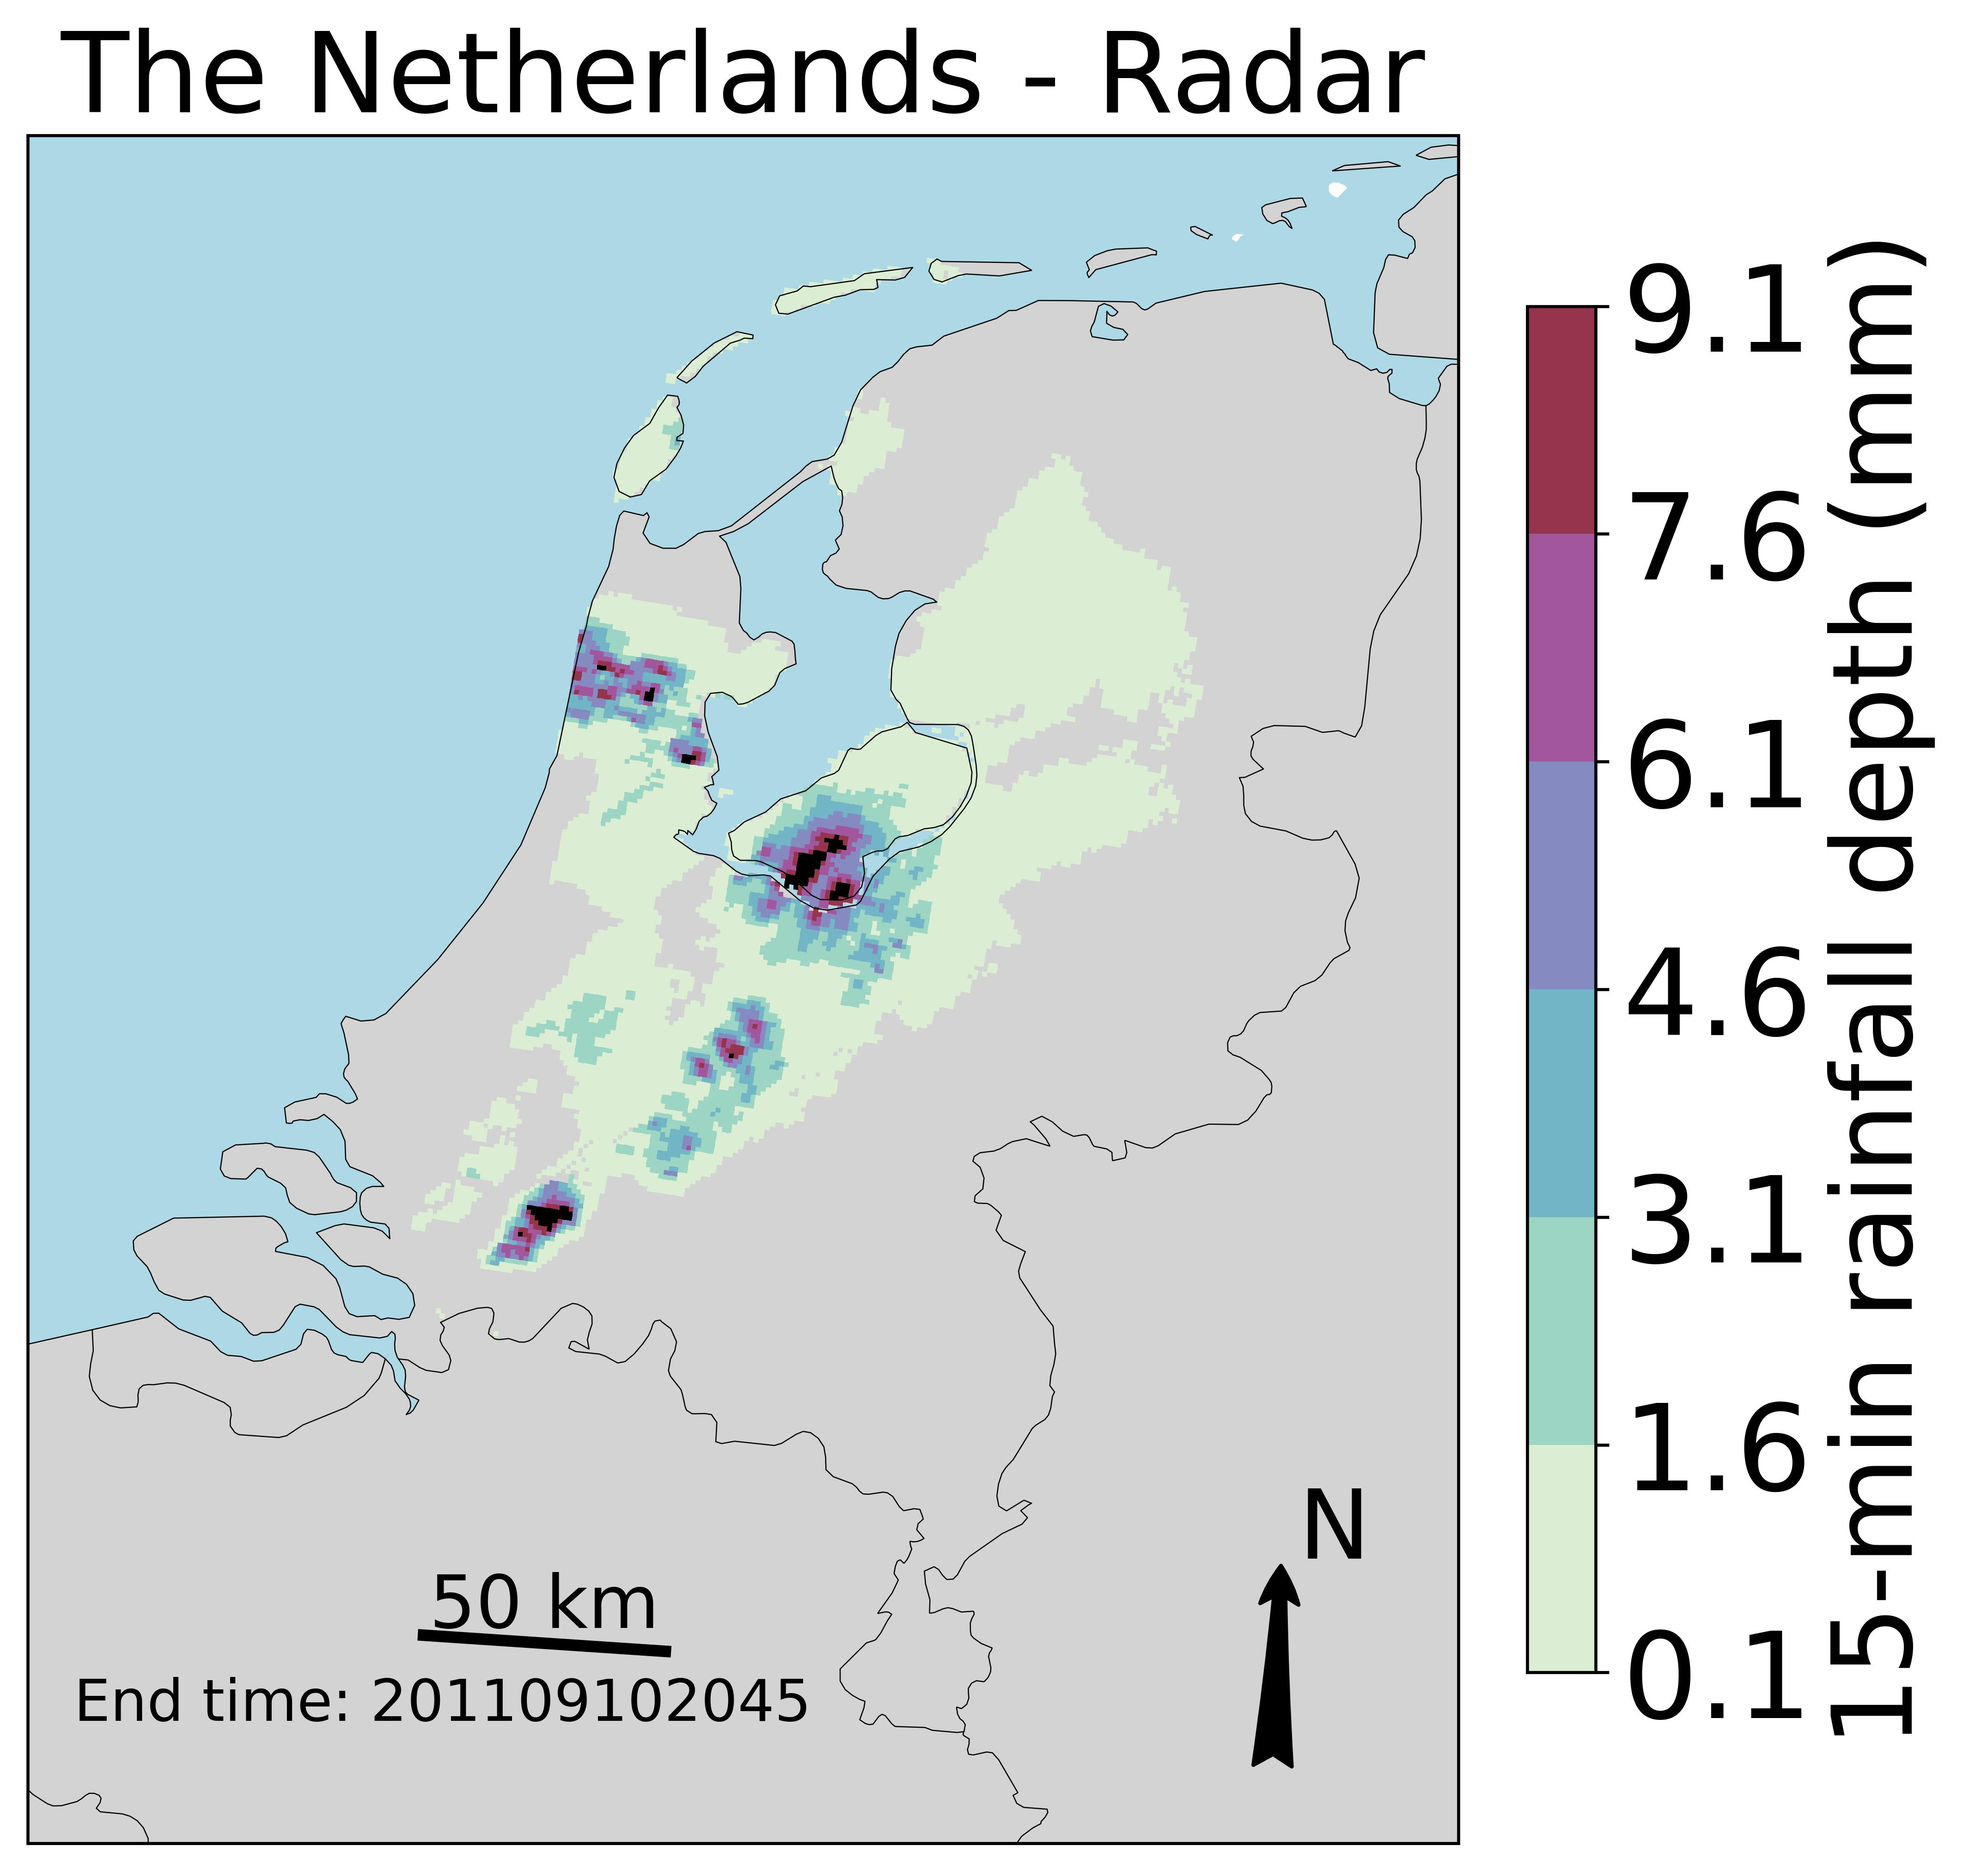
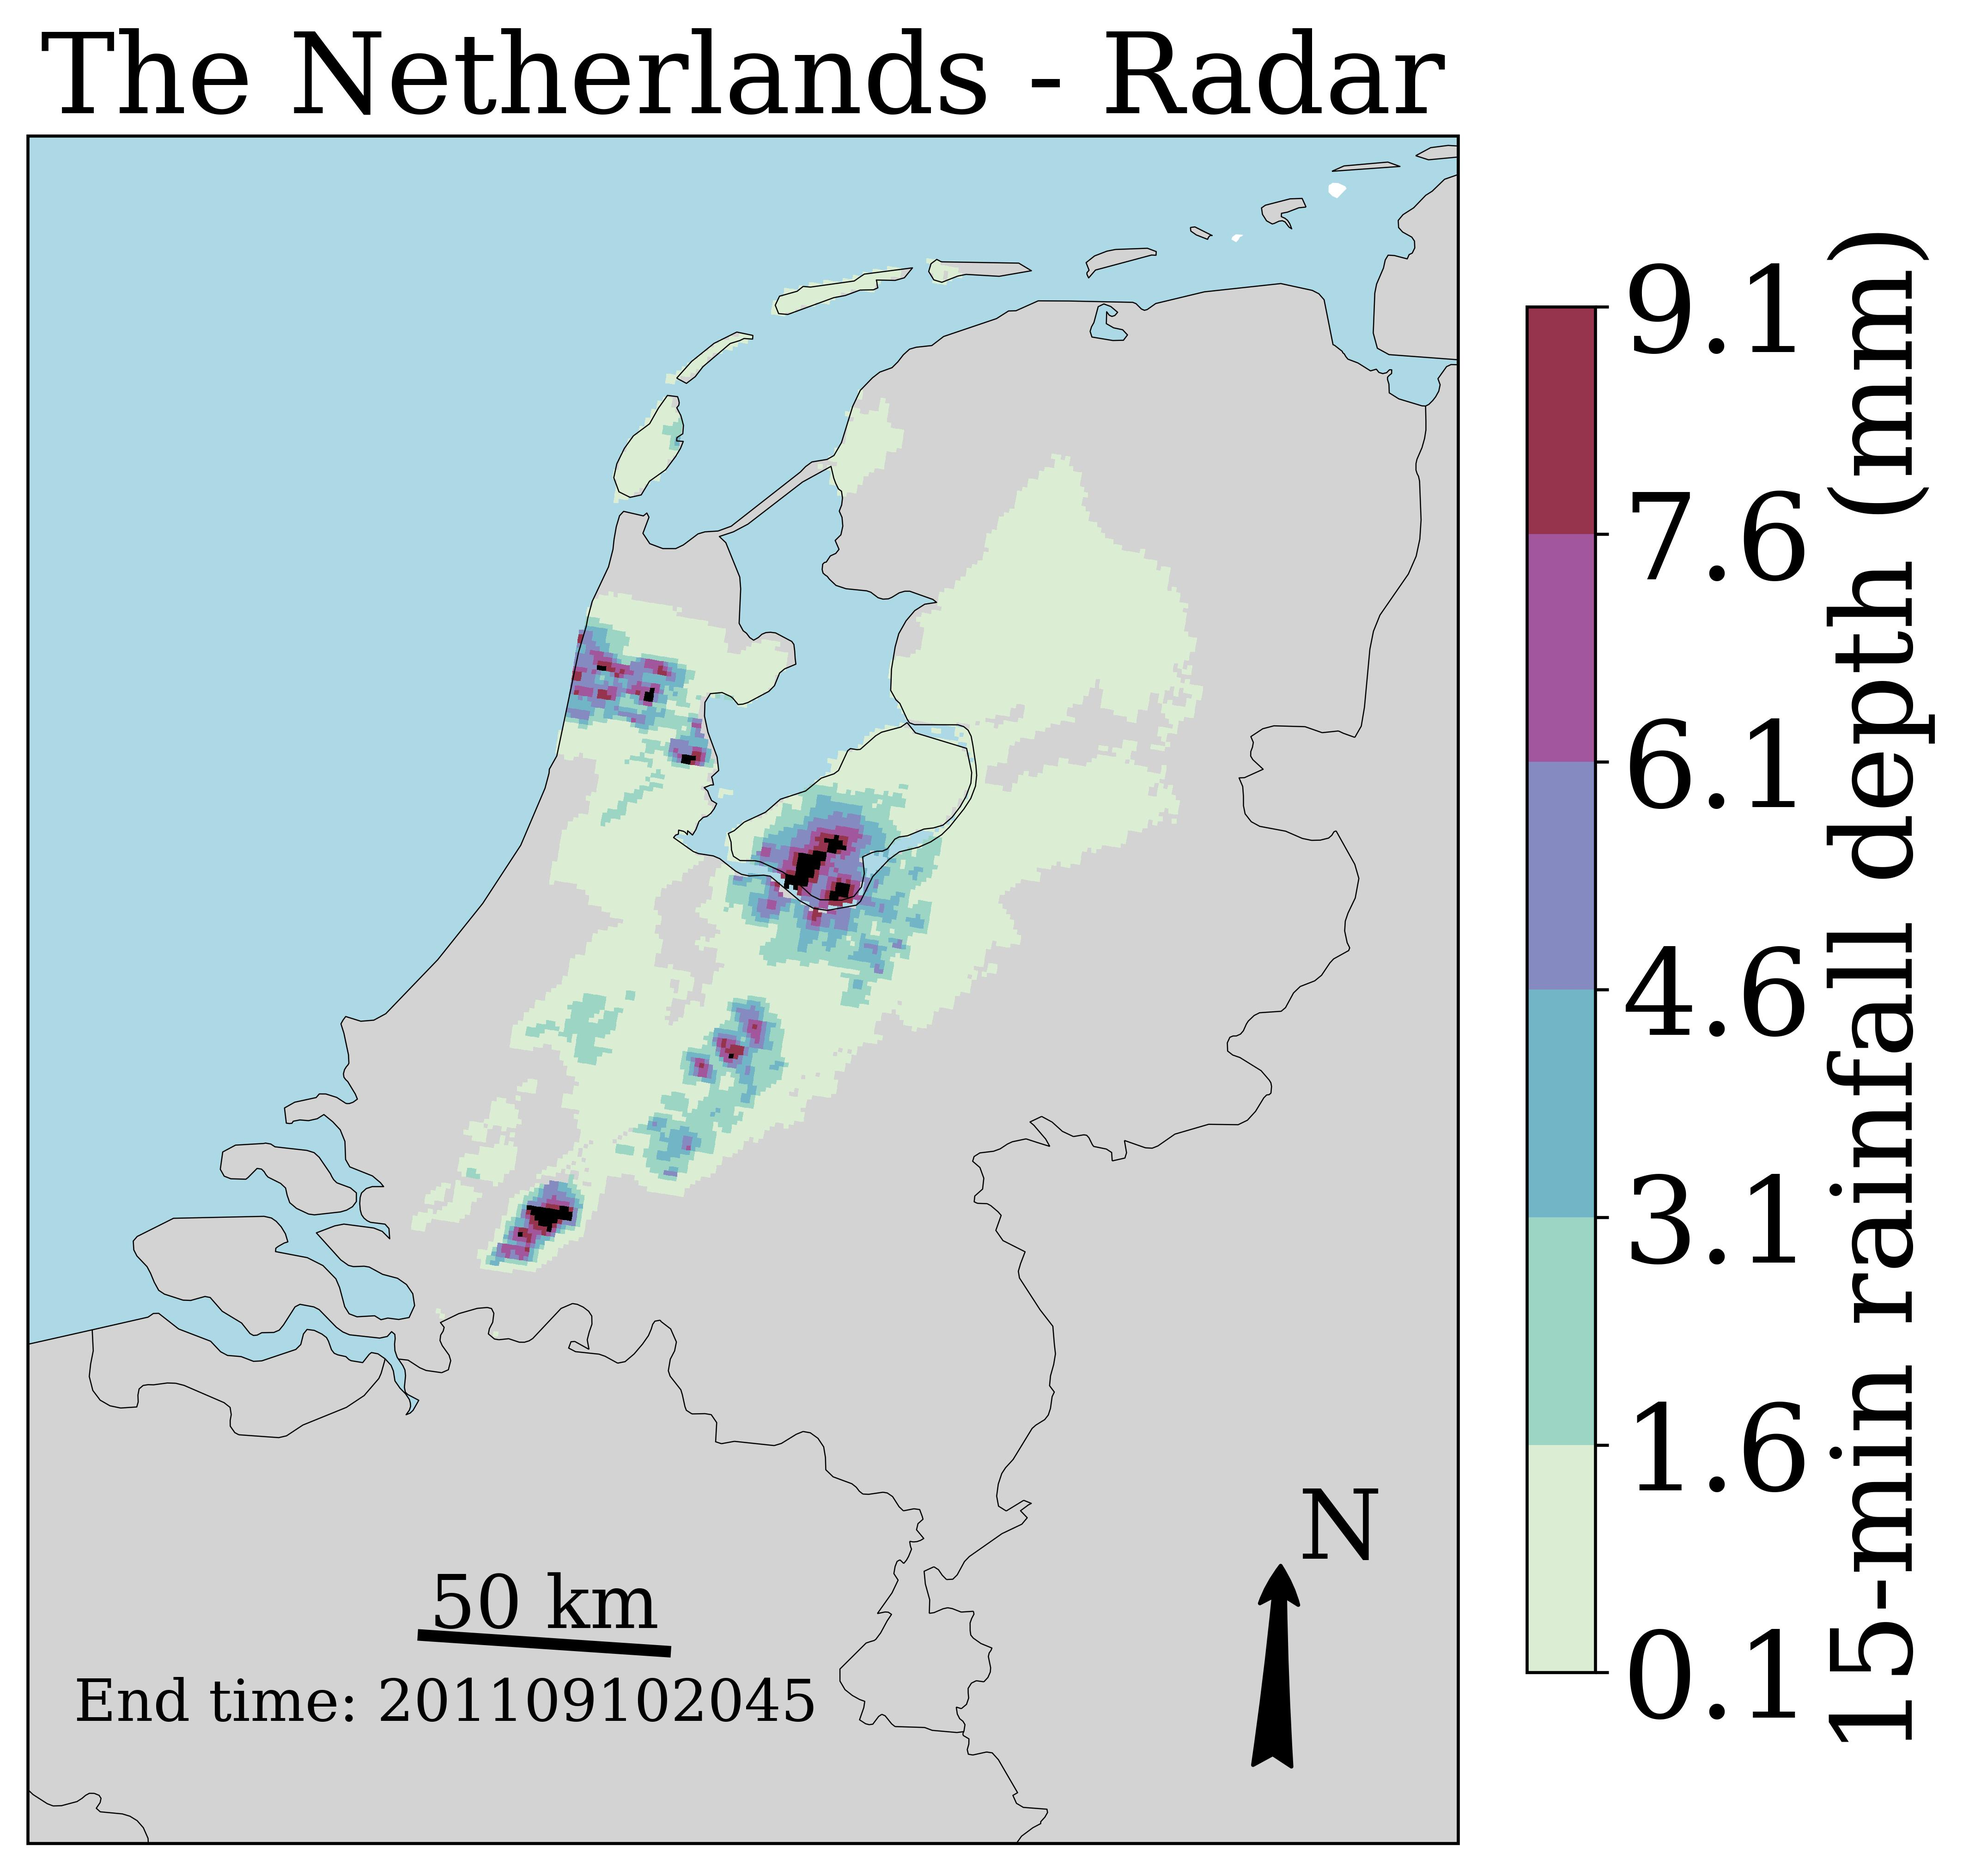
Add files via upload
Small changes in visualization:
- font changes from sans-serif to serif
- line width and color of countries, lake lines and coast lines can now be specified in "Config...py" files.

diff --git a/VisualizeCMLsGaugesRadars_CartopyOSM_GM.py b/VisualizeCMLsGaugesRadars_CartopyOSM_GM.py
@@ -5,7 +5,7 @@
 # Part of MapRAINLINK: https://github.com/overeem11/MapRAINLINK
 #
 #
-## Version 1.1
+## Version 1.11
 ## Copyright (C) 2025 Aart Overeem
 ##
 ## This program is free software: you can redistribute it and/or modify
@@ -311,7 +311,7 @@ if PlotOPERARadar=="yes":
 ##################
 
 # Map settings (e.g. projection and extent of area):
-plt.rcParams["font.family"] = "sans-serif"
+plt.rcParams["font.family"] = "serif"
 plt.rcParams.update({'font.size': FontSizeLegendLabel}) 
 plt.close('all')
 transform = ccrs.PlateCarree()
@@ -532,11 +532,11 @@ if TypeBackGroundMap=="NE":
    if DrawProvinces=="yes":
       ax.add_feature(cartopy.feature.STATES.with_scale("10m"), linewidth=0.3, zorder=2, edgecolor="gray")
    if DrawCountries=="yes":    
-      ax.add_feature(cartopy.feature.BORDERS, linestyle="-", linewidth=0.3, zorder=2)
+      ax.add_feature(cartopy.feature.BORDERS, linestyle="-", linewidth=LineWidthCoastLinesCountriesLakeLines, zorder=2, color=ColorCoastLinesCountriesLakeLines)
    if DrawCoastlines=="yes":
-       ax.coastlines(resolution="10m", linewidth=0.3, zorder=2)
+       ax.coastlines(resolution="10m", linewidth=LineWidthCoastLinesCountriesLakeLines, zorder=2, color=ColorCoastLinesCountriesLakeLines)
    if DrawLakelines=="yes":
-      ax.add_feature(cartopy.feature.LAKES, edgecolor="black", linewidth=0.3, facecolor="none",zorder=2)
+      ax.add_feature(cartopy.feature.LAKES, edgecolor=ColorCoastLinesCountriesLakeLines, linewidth=LineWidthCoastLinesCountriesLakeLines, facecolor="none",zorder=2)
 
  
 # Draw parallels & meridians: 

diff --git a/ConfigVisualizeCMLsGaugesRadars_CartopyOSM_GM.py b/ConfigVisualizeCMLsGaugesRadars_CartopyOSM_GM.py
@@ -5,7 +5,7 @@
 # Part of MapRAINLINK: https://github.com/overeem11/MapRAINLINK
 #
 #
-## Version 1.1
+## Version 1.11
 ## Copyright (C) 2025 Aart Overeem
 ##
 ## This program is free software: you can redistribute it and/or modify
@@ -60,6 +60,8 @@ ColorOceanRiverLakes = "lightblue"      	# Color of oceans, seas, rivers and lak
 DrawCoastlines = "yes"    			# "yes" for drawing coastlines. Note that coastlines and country borders seem less accurate compared to OpenStreetMap and GoogleMap.
 DrawCountries = "yes"	  			# "yes" for drawing country borders.
 DrawLakelines = "yes"     			# "yes" for drawing lake lines.
+LineWidthCoastLinesCountriesLakeLines = 0.3     # 0.3 works wel for European scale, 1.2 works well for northwestern Europe scale.
+ColorCoastLinesCountriesLakeLines = "black"     # "black" can work well for European scale, "dimgray" can work well for northwestern Europe scale.
 DrawProvinces = "no"     			# "yes" for drawing borders of departments/provinces. 
 DrawRivers = "no"        			# "yes" for drawing rivers.
 Projection = "yes"                               # "yes" to use projection with EPSG code given below:

diff --git a/ConfigVisualizeCMLsGaugesRadars_CartopyOSM_GM_SriLanka.py b/ConfigVisualizeCMLsGaugesRadars_CartopyOSM_GM_SriLanka.py
@@ -5,7 +5,7 @@
 # Part of MapRAINLINK: https://github.com/overeem11/MapRAINLINK
 #
 #
-## Version 1.1
+## Version 1.11
 ## Copyright (C) 2025 Aart Overeem
 ##
 ## This program is free software: you can redistribute it and/or modify
@@ -60,6 +60,8 @@ ColorOceanRiverLakes = "lightblue"      	# Color of oceans, seas, rivers and lak
 DrawCoastlines = "yes"    			# "yes" for drawing coastlines. Note that coastlines and country borders seem less accurate compared to OpenStreetMap and GoogleMap.
 DrawCountries = "yes"	  			# "yes" for drawing country borders.
 DrawLakelines = "yes"     			# "yes" for drawing lake lines.
+LineWidthCoastLinesCountriesLakeLines = 0.3     # 0.3 works wel for European scale, 1.2 works well for northwestern Europe scale.
+ColorCoastLinesCountriesLakeLines = "black"     # "black" can work well for European scale, "dimgray" can work well for northwestern Europe scale.
 DrawProvinces = "no"     			# "yes" for drawing borders of departments/provinces. 
 DrawRivers = "no"        			# "yes" for drawing rivers.
 Projection = "yes"                               # "yes" to use projection with EPSG code given below:

diff --git a/AccumulateRadarHDF5KNMIListCount.py b/AccumulateRadarHDF5KNMIListCount.py
@@ -5,7 +5,7 @@
 # Part of MapRAINLINK: https://github.com/overeem11/MapRAINLINK
 #
 #
-## Version 1.1
+## Version 1.11
 ## Copyright (C) 2025 Aart Overeem
 ##
 ## This program is free software: you can redistribute it and/or modify
